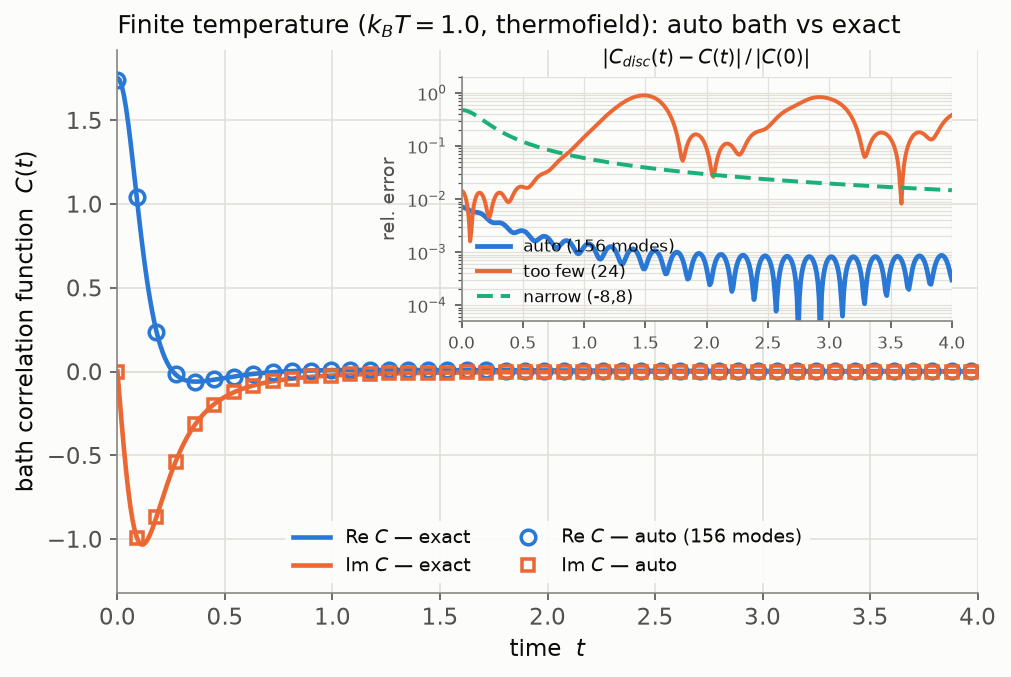
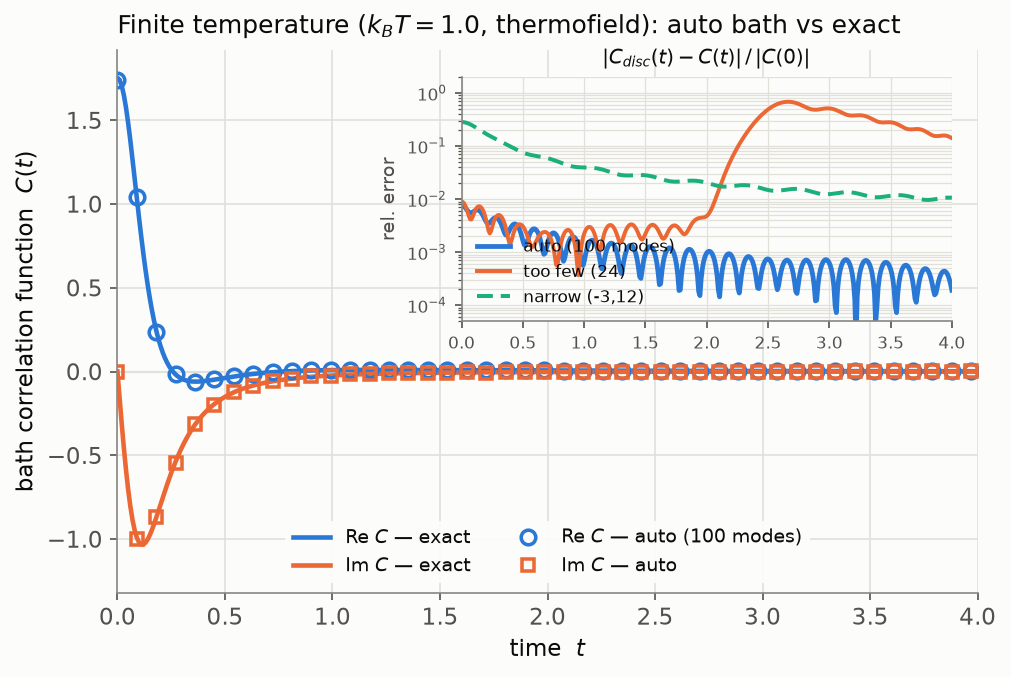
Asymmetric finite-temperature auto domain from per-branch reorganization energy
At finite temperature the thermofield density has two branches, J_beta(+w) =
J(w)(n_beta+1) and J_beta(-w) = J(w) n_beta. Instead of mirroring the bare-J
cutoff symmetrically, each branch is now truncated by its own reorganization-
energy tail (the frequency where the tail (1/pi) int_w^inf J_beta/w' dw' falls
below (1-coverage)*lambda). The tail form is used because each branch's total
reorganization energy is IR-divergent (~1/w^2 as w->0); the tail past the cutoff
converges and lambda is finite, so the criterion is well defined.

This gives an asymmetric window (-w_lo, w_hi) whose thermally-suppressed negative
edge sits close to zero and widens with temperature: for J=0.2 w exp(-w/5),
T=0.5/1/2 -> (-2.1,34.9)/(-4.3,34.9)/(-8.2,34.9). Validated against the exact
thermal bath correlation function: the T=1 window (-4.3,34.9) with 100 modes
reproduces C(t) to 7.6e-3 -- the same fidelity the old symmetric (-34.9,34.9)
reached with 156 modes, so ~1/3 fewer modes for equal accuracy.

- bath/auto.py: auto_domain(J, coverage, beta=None); new _tail_cutoff helper
- simulate.py: Bath._auto_domain passes beta (not signed)
- tests: test_auto_domain_thermal_is_asymmetric (replaces the symmetric test)
- docs/bath.md + finite-T figure updated to the asymmetric domain

diff --git a/src/fishbonett/bath/auto.py b/src/fishbonett/bath/auto.py
@@ -5,7 +5,10 @@ density itself:
 
 * the frequency **domain**, from the reorganization energy
   :math:`\\lambda = \\tfrac{1}{\\pi}\\int_0^\\infty J(\\omega)/\\omega\\,d\\omega` --
-  choose the window that captures a target fraction (default 99.9%) of it;
+  choose the window that captures a target fraction (default 99.9%) of it.  At
+  finite temperature the two halves of the thermofield density are truncated
+  independently, giving an *asymmetric* window whose thermally-suppressed negative
+  edge sits closer to zero;
 * the number of **modes**, from the interaction-picture chain couplings
   :math:`d_j(t)`.  These form a light-cone along the chain, so a run of length
   ``t_max`` only excites the first ``j_max`` sites.
@@ -42,19 +45,46 @@ def reorganization_energy(J):
     return float(cum[-1] / np.pi)
 
 
-def auto_domain(J, coverage=0.999, signed=False):
+def _tail_cutoff(density, lam, coverage, lo=1e-8, hi=1e10, n=4000):
+    """Frequency beyond which the reorganization-energy *tail* of ``density`` drops
+    below ``(1 - coverage) * lam``, i.e. the modes past the cutoff carry less than
+    ``1 - coverage`` of the reorganization energy ``lam``.
+
+    The tail ``(1/pi) int_w^inf density(w')/w' dw'`` converges at high frequency even
+    when the density's *total* reorganization energy diverges at ``w -> 0`` (as each
+    thermal branch ``J(w) n_beta`` / ``J(w)(n_beta + 1)`` does), so this is the
+    well-defined way to place a high-frequency cutoff on a thermalized branch."""
+    w = np.geomspace(lo, hi, n)
+    with np.errstate(over="ignore", under="ignore", divide="ignore",
+                     invalid="ignore"):
+        f = np.array([float(density(x)) for x in w]) / w
+        f = np.nan_to_num(f, nan=0.0, posinf=0.0, neginf=0.0)
+        seg = 0.5 * (f[1:] + f[:-1]) * np.diff(w)             # per-interval reorg energy
+        tail = np.concatenate([np.cumsum(seg[::-1])[::-1], [0.0]]) / np.pi
+    below = np.nonzero(tail <= (1.0 - coverage) * lam)[0]
+    return float(w[below[0]]) if below.size else float(w[-1])
+
+
+def auto_domain(J, coverage=0.999, beta=None):
     """Frequency window capturing ``coverage`` of the reorganization energy.
 
-    Returns ``(0, w_hi)`` for a zero-temperature bath, or ``(-w_hi, w_hi)`` when
-    ``signed`` (a thermofield / T-TEDOPA density lives on both frequency halves)."""
-    w, cum = _reorg_profile(J)
-    total = cum[-1]
-    if total <= 0:
+    At zero temperature (``beta is None``) returns ``(0, w_hi)`` from the ordinary
+    reorganization energy of ``J``.  At finite temperature the thermalized
+    (thermofield / T-TEDOPA) density lives on **both** frequency halves,
+    ``J_beta(+w) = J(w)(n_beta + 1)`` and ``J_beta(-w) = J(w) n_beta``; each half is
+    truncated by its *own* reorganization-energy tail, giving an **asymmetric**
+    ``(-w_lo, w_hi)`` whose negative edge is closer to zero because the negative
+    branch is thermally suppressed."""
+    lam = reorganization_energy(J)
+    if lam <= 0:
         raise ValueError("reorganization energy is non-positive; set `domain` "
                          "explicitly")
-    idx = min(int(np.searchsorted(cum, coverage * total)), len(w) - 1)
-    w_hi = float(w[idx])
-    return (-w_hi, w_hi) if signed else (0.0, w_hi)
+    if beta is None:
+        return (0.0, _tail_cutoff(J, lam, coverage))
+    nb = lambda x: 1.0 / np.expm1(beta * x)
+    w_hi = _tail_cutoff(lambda x: J(x) * (nb(x) + 1.0), lam, coverage)   # J_beta(+w)
+    w_lo = _tail_cutoff(lambda x: J(x) * nb(x), lam, coverage)           # J_beta(-w)
+    return (-w_lo, w_hi)
 
 
 def auto_n_modes(sd, domain, t_max, *, buffer=10, rel_threshold=1e-3, n_t=80,

diff --git a/tests/unit/test_bath_auto.py b/tests/unit/test_bath_auto.py
@@ -30,9 +30,15 @@ def test_auto_domain_covers_reorg_energy():
     assert covered >= 0.999 - 1e-3
 
 
-def test_auto_domain_signed_for_temperature():
-    lo, hi = auto_domain(_ohmic, signed=True)
-    assert hi > 0 and lo == pytest.approx(-hi)
+def test_auto_domain_thermal_is_asymmetric():
+    """A finite-temperature (thermofield) domain is signed but asymmetric: the
+    negative branch J(w) n_beta is thermally suppressed, so its edge sits closer to
+    zero than the positive edge, and it widens with temperature."""
+    lo, hi = auto_domain(_ohmic, beta=1.0)
+    assert lo < 0 < hi and abs(lo) < hi              # asymmetric, negative tighter
+    lo_hot, hi_hot = auto_domain(_ohmic, beta=0.5)   # T = 2 > 1
+    assert abs(lo_hot) > abs(lo)                     # hotter -> wider negative wing
+    assert hi_hot == pytest.approx(hi, rel=1e-3)     # positive edge ~ unchanged
 
 
 def test_auto_n_modes_grows_with_tmax():

diff --git a/src/fishbonett/simulate.py b/src/fishbonett/simulate.py
@@ -143,9 +143,10 @@ class Bath:
 
     def _auto_domain(self):
         from fishbonett.bath.auto import auto_domain
-        signed = self.temperature is not None or self.beta is not None
+        beta = self.beta if self.beta is not None else (
+            1.0 / self.temperature if self.temperature is not None else None)
         Js = self.J if isinstance(self.J, (list, tuple)) else [self.J]
-        doms = [auto_domain(Jc, signed=signed) for Jc in Js]      # cover every channel
+        doms = [auto_domain(Jc, beta=beta) for Jc in Js]          # cover every channel
         return (min(d[0] for d in doms), max(d[1] for d in doms))
 
     def resolved(self, t_max=None):

diff --git a/docs/bath.md b/docs/bath.md
@@ -32,9 +32,13 @@ bath = Bath(J=lambda w: 0.2 * w * np.exp(-w / 5), temperature=1.0, phys_dim=20)
 ```
 
 - **`domain`** defaults to the window that captures **99.9% of the reorganization
-  energy** $\lambda = \tfrac{1}{\pi}\int_0^\infty J(\omega)/\omega\,d\omega$
-  ($(0, \omega_{hi})$, or $(-\omega_{hi}, \omega_{hi})$ when a temperature is set,
-  since a thermofield density lives on both frequency halves).
+  energy** $\lambda = \tfrac{1}{\pi}\int_0^\infty J(\omega)/\omega\,d\omega$:
+  $(0, \omega_{hi})$ at zero temperature.  With a temperature set, the thermofield
+  density lives on both frequency halves, $J_\beta(+\omega) = J(\omega)(n_\beta+1)$
+  and $J_\beta(-\omega) = J(\omega)\,n_\beta$; each half is truncated by **its own**
+  reorganization-energy tail, so the window is **asymmetric**,
+  $(-\omega_{lo}, \omega_{hi})$, with the thermally-suppressed negative edge much
+  closer to zero (and widening with temperature).
 - **`n_modes`** defaults to the **light-cone extent** of the interaction-picture
   chain couplings $d_j(t)$: the coupling to chain site $j$ stays negligible until
   the excitation front reaches it, so a run of length `t_max` only needs the first
@@ -122,21 +126,22 @@ percent; keep both and it is faithful for the entire propagation.
 The same holds at **finite temperature**.  There the correlation function carries
 the detailed-balance factor,
 $C(t) = \tfrac{1}{\pi}\int_0^\infty d\omega\, J(\omega)[\coth(\tfrac{\beta\omega}{2})
-\cos\omega t - i\sin\omega t]$, and the automatic bath uses a **signed** domain
-(thermofield / T-TEDOPA) with more modes to cover both frequency halves — for
-$k_B T = 1$ here, $(-34.9, 34.9)$ and 156 modes.  It reproduces the thermal $C(t)$
-just as faithfully (peak error $7 \times 10^{-3}$), while too few modes or too
-narrow a domain fail in the same way:
+\cos\omega t - i\sin\omega t]$, and the automatic bath uses the **asymmetric signed
+domain** above (thermofield / T-TEDOPA), each half sized by its own
+reorganization-energy tail — for $k_B T = 1$ here, $(-4.3, 34.9)$ and 100 modes.
+It reproduces the thermal $C(t)$ just as faithfully (peak error
+$7.6 \times 10^{-3}$) at far fewer modes than a symmetric window would need, while
+too few modes or too narrow a domain fail in the same way:
 
 ```{figure} img/bath_correlation_finiteT.png
 :alt: Finite-temperature bath correlation function; the auto thermofield bath (156 modes on a signed domain) lands on the exact thermal C(t), with an inset showing the relative error stays ~1e-3 while too-few-modes and too-narrow-domain discretizations rise toward 1.
 :width: 80%
 :align: center
 
-Finite temperature ($k_B T = 1$).  The automatic thermofield bath (156 modes on
-the signed domain, markers) reproduces the thermal correlation function (lines);
-the inset shows the same separation between the faithful automatic choice and the
-degraded discretizations.
+Finite temperature ($k_B T = 1$).  The automatic thermofield bath (100 modes on
+the asymmetric signed domain $(-4.3, 34.9)$, markers) reproduces the thermal
+correlation function (lines); the inset shows the same separation between the
+faithful automatic choice and the degraded discretizations.
 ```
 
 ## TEDOPA: discretization then chain mapping
